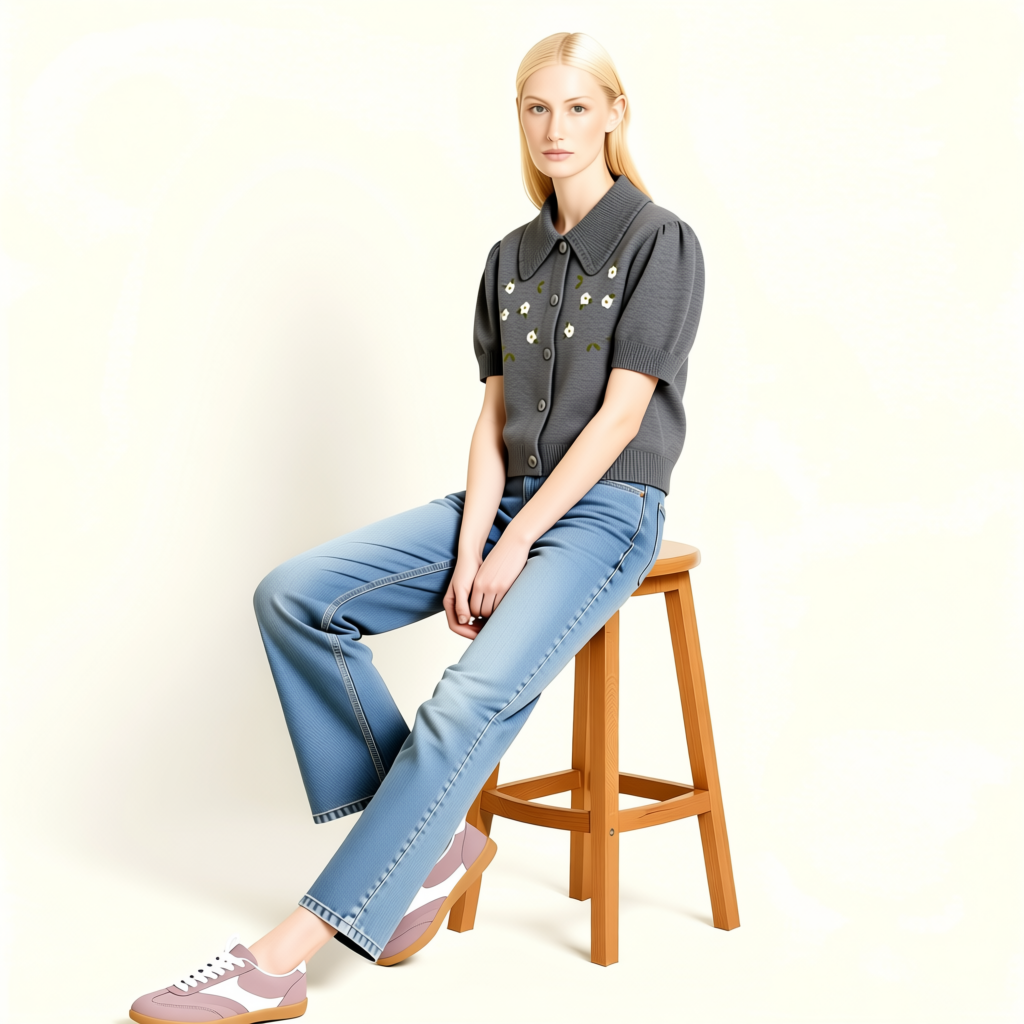
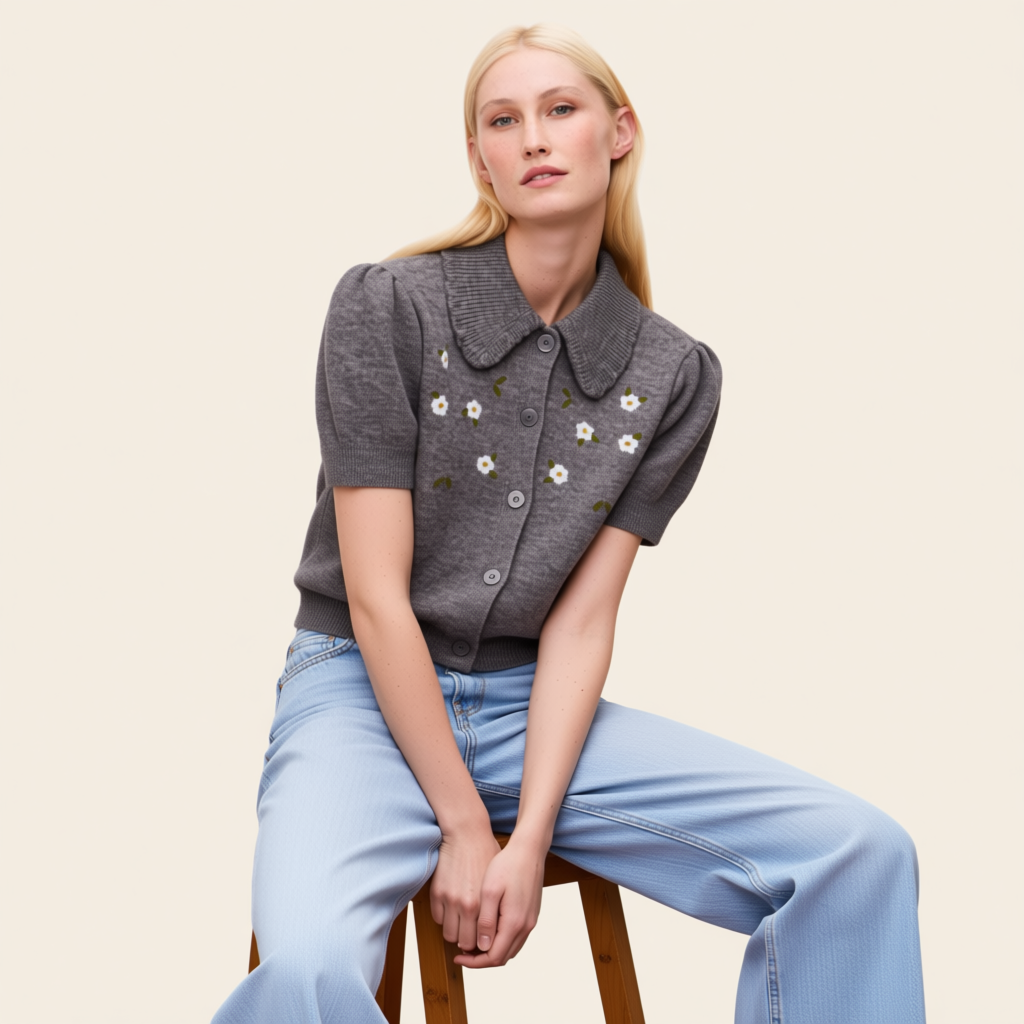
fix: small fixes, new bundle image

diff --git a/src/components/DetailsAndCare.tsx b/src/components/DetailsAndCare.tsx
@@ -28,7 +28,7 @@ const DetailsAndCare: React.FC = () => {
         {/* Section Title */}
         <div className="flex justify-between mb-8 lg:mb-12">
           <h2 className="text-[#0E1422] font-medium text-2xl md:text-3xl lg:text-4xl xl:text-5xl">
-            Details & care
+            Details & Highlights
           </h2>
           <div className="flex items-center gap-4">
             <Button

diff --git a/src/App.tsx b/src/App.tsx
@@ -16,9 +16,9 @@ import Footer from './components/Footer';
 
 function App() {
   const breadcrumbItems = [
-    { label: 'Home', href: '/' },
-    { label: 'Men', href: '/sale' },
-    { label: 'Jacket', isActive: true },
+    { label: 'Women', href: '/' },
+    { label: 'Clothing', href: '/sale' },
+    { label: 'Jumpers & Cardigans', isActive: true },
   ];
 
   return (

diff --git a/src/components/DesignInnovation.tsx b/src/components/DesignInnovation.tsx
@@ -24,7 +24,7 @@ const DesignInnovation: React.FC = () => {
     },
     {
       id: '2',
-      name: 'Mid-Rise Baggy Jeans',
+      name: 'Mid-Rise Flared Leg Jeans',
       price: '£18',
       image: backpackImage
     },
